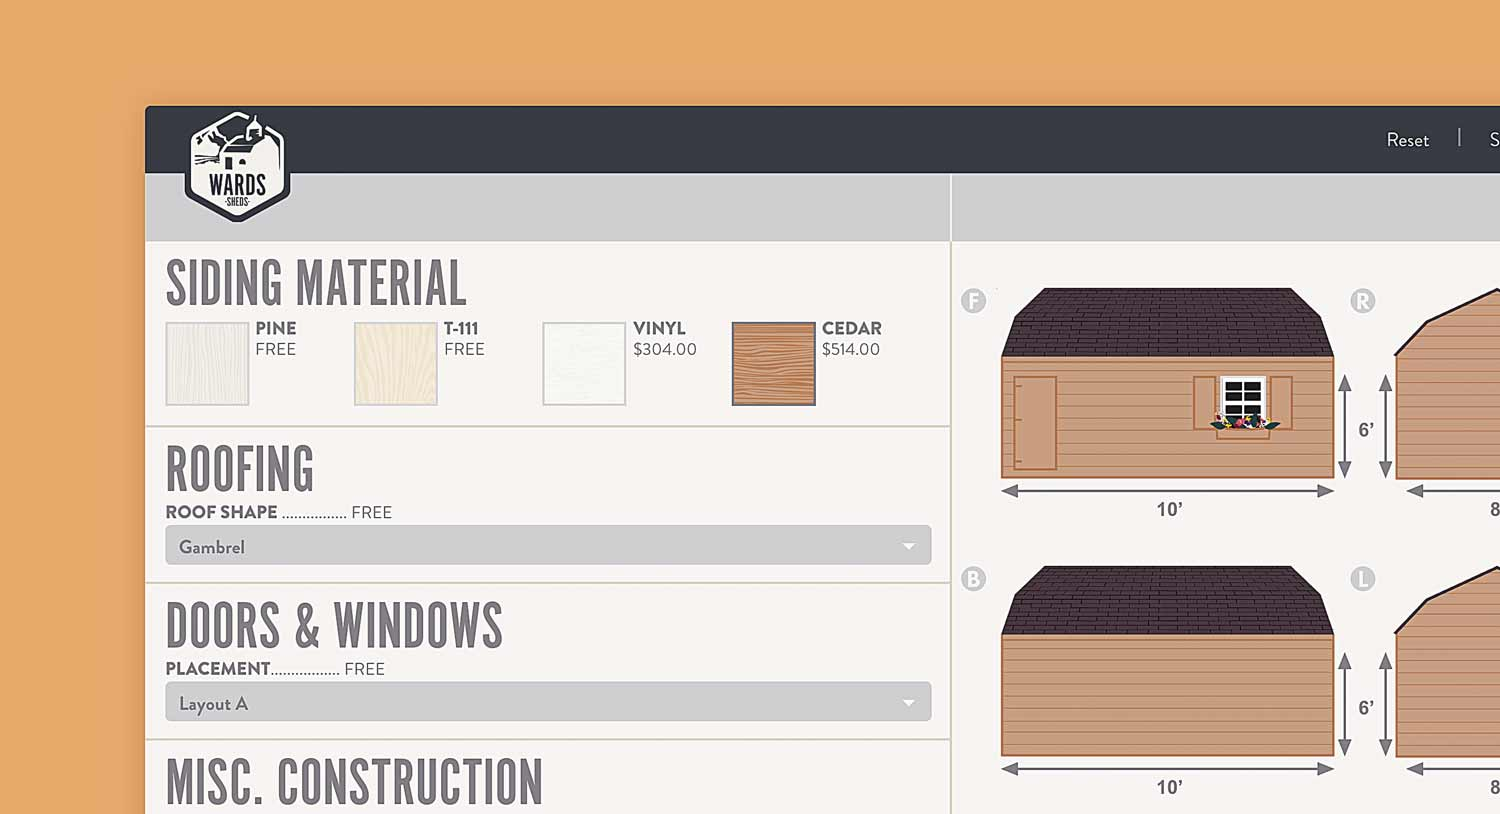
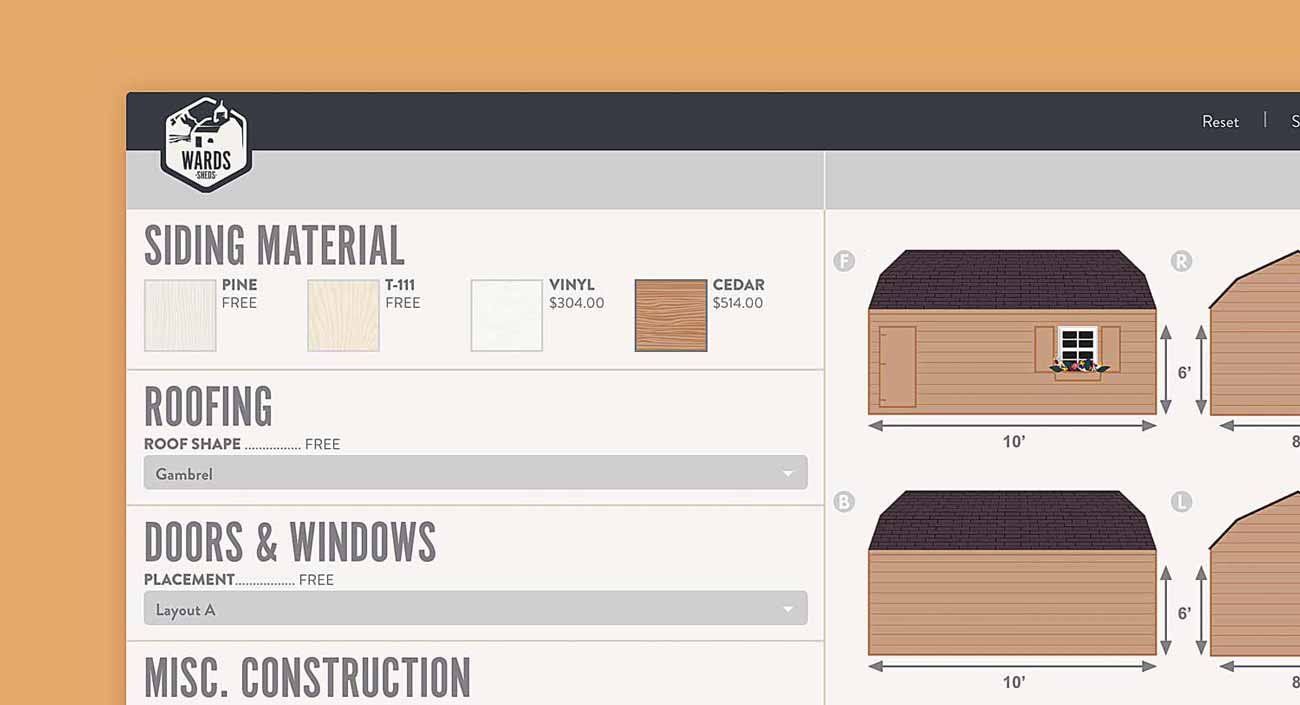
Reverted some tests; improved image compression

diff --git a/config/webpack-production.js b/config/webpack-production.js
@@ -7,7 +7,6 @@ const nodeExternals = require('webpack-node-externals');
 const HtmlWebpackPlugin = require('html-webpack-plugin');
 const CopyWebpackPlugin = require('copy-webpack-plugin');
 const UglifyJsPlugin = require('uglifyjs-webpack-plugin');
-const CompressionPlugin = require('compression-webpack-plugin');
 const MiniCssExtractPlugin = require('mini-css-extract-plugin');
 const eslintFormatter = require('react-dev-utils/eslintFormatter');
 
@@ -234,7 +233,6 @@ const browserConfig = {
       logLevel: 'silent',
       pruneSource: false,
     }),
-    new CompressionPlugin(),
   ].filter(Boolean),
 };
 

diff --git a/src/server/index.js b/src/server/index.js
@@ -18,7 +18,7 @@ const filepath = path.resolve('build', 'templates', 'index.html');
 const template = fs.readFileSync(filepath).toString();
 
 app.use(cors());
-// app.use(serve('build'));
+app.use(serve('build'));
 
 router.get('*', (ctx) => {
   const markup = renderToString(
